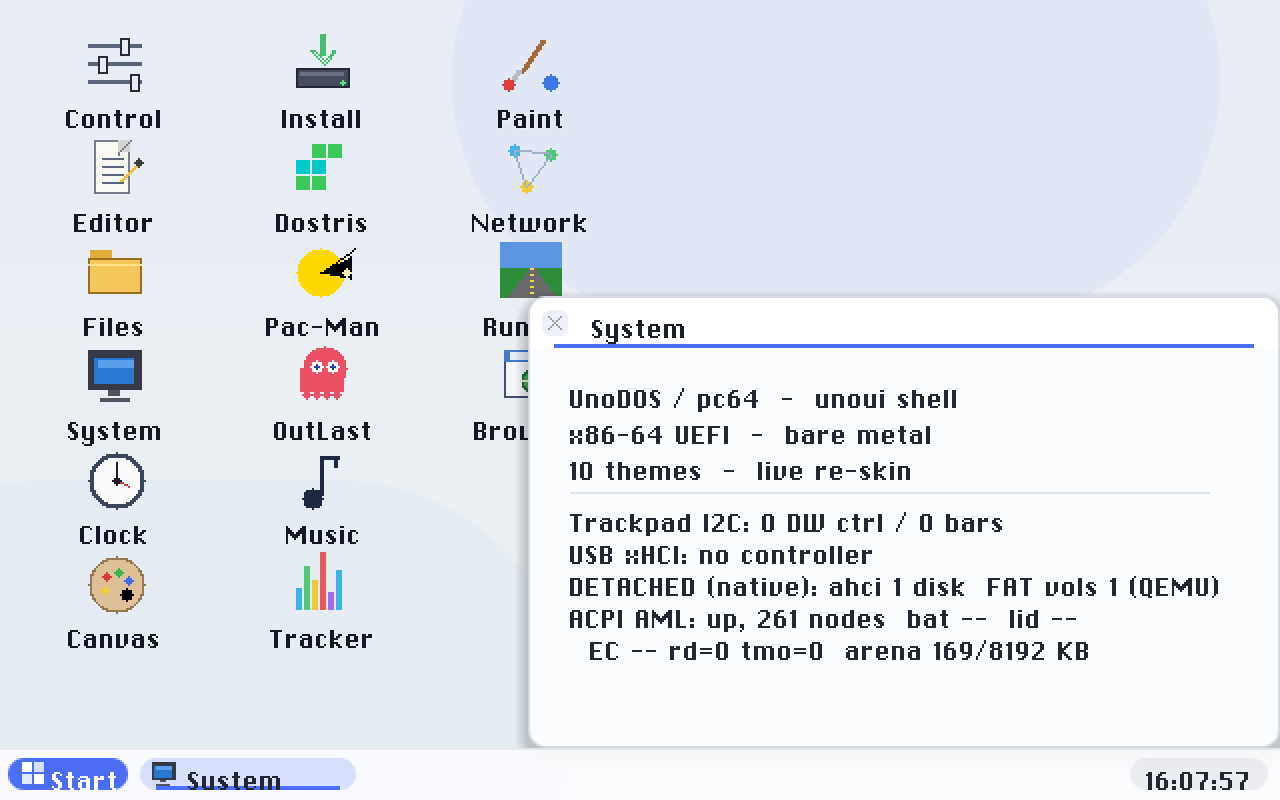
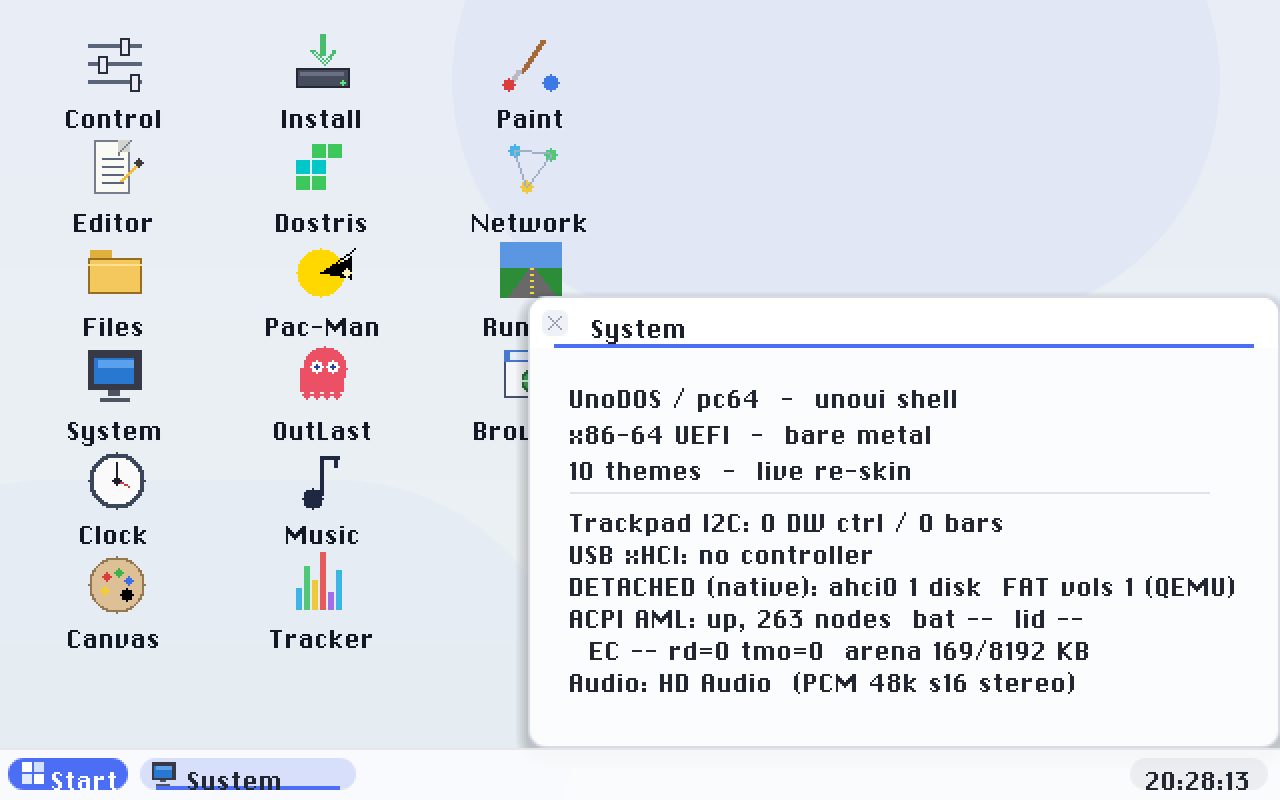
docs: user guide covers the new audio + storage drivers
Guide text: hardware-support card (HD Audio/AC'97 sound, native SATA/NVMe/
eMMC storage), the working Volume slider, the apps' sound paragraph (DAC
first, PC-speaker fallback), the first-boot chime note, the System window
caption (driver + audio backend readouts), and the developer tables
(driver tail, unosound PCM path, pc64_fs native R/W FAT stack - was stale
read-only-SFS). docs_shots.py boots with an intel-hda device so the System
screenshot shows the live audio line; system.png regenerated
(DETACHED ahci0 + HD Audio PCM 48k). Site rebuilt.

Changed region(s): [[0.625, 0.7188, 0.9688, 0.7812], [0.4375, 0.8438, 0.8438, 0.875], [0.875, 0.9688, 0.9688, 1.0]]

diff --git a/docs/apps.html b/docs/apps.html
@@ -51,7 +51,7 @@
 <div class="grid cols-2">
   <figure><img src="assets/img/editor.png" alt="Editor: a text editor with a File and Edit menu, multi-line editing, and Save, Open and New. Each document can even have its own font." loading="lazy"><figcaption><b>Editor</b>: a text editor with a File and Edit menu, multi-line editing, and Save, Open and New. Each document can even have its own font.</figcaption></figure>
   <figure><img src="assets/img/files.png" alt="Files: your saved documents." loading="lazy"><figcaption><b>Files</b>: your saved documents.</figcaption></figure>
-  <figure><img src="assets/img/system.png" alt="System: system and device information at a glance. Its status line shows how independent of the firmware UnoDOS is running - on PCs the native drivers can take over storage, input and timers completely (shown as DETACHED)." loading="lazy"><figcaption><b>System</b>: system and device information at a glance. Its status line shows how independent of the firmware UnoDOS is running - on PCs the native drivers can take over storage, input and timers completely (shown as <i>DETACHED</i>).</figcaption></figure>
+  <figure><img src="assets/img/system.png" alt="System: system and device information at a glance. Its status lines show how independent of the firmware UnoDOS is running - which native storage driver has taken over (DETACHED (native): ahci0 / nvme0 / emmc0 for SATA, NVMe and eMMC disks), and which audio backend the sound reaches (HD Audio, AC&#x27;97, or the PC speaker)." loading="lazy"><figcaption><b>System</b>: system and device information at a glance. Its status lines show how independent of the firmware UnoDOS is running - which native storage driver has taken over (<i>DETACHED (native): ahci0 / nvme0 / emmc0</i> for SATA, NVMe and eMMC disks), and which audio backend the sound reaches (<i>HD Audio</i>, <i>AC'97</i>, or the PC speaker).</figcaption></figure>
   <figure><img src="assets/img/clock.png" alt="Clock: the current time." loading="lazy"><figcaption><b>Clock</b>: the current time.</figcaption></figure>
 </div>
 <p>A <strong>Canvas</strong> demo shows how an app can draw freely inside its window.</p>
@@ -63,7 +63,10 @@
   <figure><img src="assets/img/tracker.png" alt="Tracker: a 4-channel pattern sequencer." loading="lazy"><figcaption><b>Tracker</b>: a 4-channel pattern sequencer.</figcaption></figure>
   <figure><img src="assets/img/music.png" alt="Music: a melody player." loading="lazy"><figcaption><b>Music</b>: a melody player.</figcaption></figure>
 </div>
-<p>The games, Music and Tracker all play sound through the PC speaker.</p>
+<p>The games, Music and Tracker all make sound - through the machine's <strong>HD&nbsp;Audio</strong>
+or <strong>AC'97</strong> audio hardware on modern PCs (which have no PC speaker), with the classic
+PC-speaker beep as the fallback on machines that still have one. The Control Panel's Volume slider
+sets the level.</p>
 
 <h2 id="games">Games</h2>
 <p>The classic games each run in their own window; <strong>Runner3D</strong> takes the whole screen

diff --git a/docs/appearance.html b/docs/appearance.html
@@ -50,8 +50,9 @@ the Control Panel and all without a reboot.</p>
 <h2 id="control">The Control Panel</h2>
 <p>The Control Panel is where you change how UnoDOS looks: a <strong>Theme</strong> menu, a
 <strong>Dark mode</strong> toggle, a <strong>Resolution</strong> menu, a system-wide <strong>Font</strong>
-picker, a volume slider, a UI-scale control, and settings for the date and time. It opens on first boot
-and from the Start menu.</p>
+picker, a <strong>Volume</strong> slider (it adjusts the sound output live, even mid-note, on machines
+with HD&nbsp;Audio or AC'97 audio), a UI-scale control, and settings for the date and time. It opens on
+first boot and from the Start menu.</p>
 <figure><img src="assets/img/controlpanel.png" alt="The Control Panel. Focus a menu with Tab and change it with ↑/↓; the desktop re-skins instantly." loading="lazy"><figcaption>The Control Panel. Focus a menu with <kbd>Tab</kbd> and change it with <kbd>↑</kbd>/<kbd>↓</kbd>; the desktop re-skins instantly.</figcaption></figure>
 
 <h2 id="themes">The ten themes</h2>

diff --git a/docs/dev-api.html b/docs/dev-api.html
@@ -176,8 +176,8 @@ int  fb_big_text(int x,int y,const char *s,fb_px fg,long bg,int scale);
 <div class="tw"><table>
 <thead><tr><th>Subsystem</th><th>Role</th></tr></thead>
 <tbody>
-<tr><td><code>pc64_fs</code> / <code>pc64_io</code></td><td>Unified read-only file namespace: volume 0 is the RAM disk, volumes 1+ are FAT/FAT32 disks mounted through the UEFI Simple File System protocol.</td></tr>
-<tr><td><code>unosound</code></td><td>Single-voice PC-speaker sequencer; the shared audio path for the games, Music and Tracker (<code>uno_seq_beep</code> / <code>_play</code> / <code>_stop</code>).</td></tr>
+<tr><td><code>pc64_fs</code> / <code>pc64_io</code></td><td>Unified file namespace: volume 0 is the RAM disk, volumes 1+ are FAT/FAT32 disks mounted by UnoDOS's own FAT stack (read/write) over the native AHCI/NVMe/SDHCI drivers, with firmware Simple File System volumes as read-only extras while attached.</td></tr>
+<tr><td><code>unosound</code></td><td>Single-voice sequencer; the shared audio path for the games, Music and Tracker (<code>uno_seq_beep</code> / <code>_play</code> / <code>_stop</code>). On pc64 the voice renders into an HD&nbsp;Audio / AC'97 PCM ring when one exists (<code>snd_pcm.c</code>), else the PC speaker.</td></tr>
 <tr><td><code>pc64_pci</code></td><td>PCI config scan; locates the e1000 NIC, xHCI controllers and the Intel iGPU.</td></tr>
 <tr><td><code>net</code> / <code>e1000</code></td><td>e1000 driver publishing a <code>uno_nic_t</code>, plus a from-scratch stack: ARP, IPv4, ICMP, UDP, DHCP, minimal TCP.</td></tr>
 <tr><td><code>pc64_http</code> / <code>pc64_browser</code> / <code>js</code></td><td>HTTP/1.0 GET with DNS, the immediate-mode HTML/Markdown/CSS renderer, and the JavaScript interpreter.</td></tr>

diff --git a/docs/getting-started.html b/docs/getting-started.html
@@ -116,7 +116,9 @@ menu) can put UnoDOS on the computer itself, so it boots without the stick:</p>
 
 <h2 id="firstboot">First boot</h2>
 <p>A splash screen with a loading bar appears while UnoDOS starts up, then a short start-up chime
-plays as the desktop appears. On a laptop the TrackPoint, touchpad and keyboard all work.</p>
+plays as the desktop appears - through the machine's sound hardware (HD&nbsp;Audio or AC'97) on a
+modern PC, or the PC speaker on machines that have one. On a laptop the TrackPoint, touchpad and
+keyboard all work.</p>
 <div class="grid cols-2">
   <figure><img src="assets/img/splash.png" alt="The boot splash, with a loading bar and version." loading="lazy"><figcaption>The boot splash, with a loading bar and version.</figcaption></figure>
   <figure><img src="assets/img/controlpanel.png" alt="First desktop paint: the Control Panel opens over the Aurora Light desktop." loading="lazy"><figcaption>First desktop paint: the Control Panel opens over the Aurora Light desktop.</figcaption></figure>

diff --git a/docs/developer.html b/docs/developer.html
@@ -66,7 +66,7 @@ no host C library, no underlying OS. It ships two interchangeable desktops, sele
 <tr><td><strong>Toolkit (unoui)</strong></td><td>The portable widget core: windows, widgets, events, and a swappable theme (ten themes ship).</td></tr>
 <tr><td><strong>Framebuffer (fb)</strong></td><td>A 32-bit software framebuffer: clipping, alpha blend, gradients, anti-aliased rounded rects, fractional fill-scaling, and dirty-row present-on-change.</td></tr>
 <tr><td><strong>Platform (UEFI)</strong></td><td>A hand-rolled UEFI surface: the GOP framebuffer, keyboard, pointer, and Boot Services. No gnu-efi or EDK2.</td></tr>
-<tr><td><strong>Drivers (tail)</strong></td><td>e1000 NIC and the TCP/IP + TLS stack, xHCI USB and USB Ethernet, uno3d 3D, UnoSound audio, and the TrueType engine.</td></tr>
+<tr><td><strong>Drivers (tail)</strong></td><td>e1000 NIC and the TCP/IP + TLS stack, xHCI USB and USB Ethernet, native AHCI/NVMe/SDHCI storage, HD&nbsp;Audio and AC'97 PCM audio, uno3d 3D, UnoSound, and the TrueType engine.</td></tr>
 </tbody>
 </table></div>
 

diff --git a/docs/index.html b/docs/index.html
@@ -77,7 +77,7 @@ laptop booting from a USB stick.</p>
   <div class="card"><h4>Applications</h4><p>Editor, Files, System, Clock, a Canvas demo, plus Paint, Music, a Tracker, three games and a 3D runner.</p></div>
   <div class="card"><h4>A web browser</h4><p>Shows HTML, Markdown and CSS, runs JavaScript, and loads pages over HTTP and HTTPS.</p></div>
   <div class="card"><h4>Networking</h4><p>Connect over Ethernet, get an address automatically, and browse the web, including secure (HTTPS) sites.</p></div>
-  <div class="card"><h4>Hardware support</h4><p>Your screen, keyboard, mouse and trackpad, sound, and USB, plus reading files from FAT-formatted USB sticks and disks.</p></div>
+  <div class="card"><h4>Hardware support</h4><p>Your screen, keyboard, mouse and trackpad, and USB. Sound plays through the machine's audio hardware (HD&nbsp;Audio or AC'97), and UnoDOS drives SATA, NVMe and eMMC/SD storage with its own drivers.</p></div>
 </div>
 
 <p class="kv">New here? Start with <a href="getting-started.html">Getting started</a>, then take the

diff --git a/docs/build_site.py b/docs/build_site.py
@@ -507,7 +507,7 @@ laptop booting from a USB stick.</p>
   <div class="card"><h4>Applications</h4><p>Editor, Files, System, Clock, a Canvas demo, plus Paint, Music, a Tracker, three games and a 3D runner.</p></div>
   <div class="card"><h4>A web browser</h4><p>Shows HTML, Markdown and CSS, runs JavaScript, and loads pages over HTTP and HTTPS.</p></div>
   <div class="card"><h4>Networking</h4><p>Connect over Ethernet, get an address automatically, and browse the web, including secure (HTTPS) sites.</p></div>
-  <div class="card"><h4>Hardware support</h4><p>Your screen, keyboard, mouse and trackpad, sound, and USB, plus reading files from FAT-formatted USB sticks and disks.</p></div>
+  <div class="card"><h4>Hardware support</h4><p>Your screen, keyboard, mouse and trackpad, and USB. Sound plays through the machine's audio hardware (HD&nbsp;Audio or AC'97), and UnoDOS drives SATA, NVMe and eMMC/SD storage with its own drivers.</p></div>
 </div>
 
 <p class="kv">New here? Start with <a href="getting-started.html">Getting started</a>, then take the
@@ -588,7 +588,9 @@ menu) can put UnoDOS on the computer itself, so it boots without the stick:</p>
 
 <h2 id="firstboot">First boot</h2>
 <p>A splash screen with a loading bar appears while UnoDOS starts up, then a short start-up chime
-plays as the desktop appears. On a laptop the TrackPoint, touchpad and keyboard all work.</p>
+plays as the desktop appears - through the machine's sound hardware (HD&nbsp;Audio or AC'97) on a
+modern PC, or the PC speaker on machines that have one. On a laptop the TrackPoint, touchpad and
+keyboard all work.</p>
 <div class="grid cols-2">
   {fig("splash.png", "The boot splash, with a loading bar and version.")}
   {fig("controlpanel.png", "First desktop paint: the Control Panel opens over the Aurora Light desktop.")}
@@ -651,8 +653,9 @@ the Control Panel and all without a reboot.</p>
 <h2 id="control">The Control Panel</h2>
 <p>The Control Panel is where you change how UnoDOS looks: a <strong>Theme</strong> menu, a
 <strong>Dark mode</strong> toggle, a <strong>Resolution</strong> menu, a system-wide <strong>Font</strong>
-picker, a volume slider, a UI-scale control, and settings for the date and time. It opens on first boot
-and from the Start menu.</p>
+picker, a <strong>Volume</strong> slider (it adjusts the sound output live, even mid-note, on machines
+with HD&nbsp;Audio or AC'97 audio), a UI-scale control, and settings for the date and time. It opens on
+first boot and from the Start menu.</p>
 {fig("controlpanel.png", "The Control Panel. Focus a menu with <kbd>Tab</kbd> and change it with <kbd>↑</kbd>/<kbd>↓</kbd>; the desktop re-skins instantly.")}
 
 <h2 id="themes">The ten themes</h2>
@@ -693,7 +696,7 @@ PAGES["apps.html"] = ("Applications", f"""
 <div class="grid cols-2">
   {fig("editor.png", "<b>Editor</b>: a text editor with a File and Edit menu, multi-line editing, and Save, Open and New. Each document can even have its own font.")}
   {fig("files.png", "<b>Files</b>: your saved documents.")}
-  {fig("system.png", "<b>System</b>: system and device information at a glance. Its status line shows how independent of the firmware UnoDOS is running - on PCs the native drivers can take over storage, input and timers completely (shown as <i>DETACHED</i>).")}
+  {fig("system.png", "<b>System</b>: system and device information at a glance. Its status lines show how independent of the firmware UnoDOS is running - which native storage driver has taken over (<i>DETACHED (native): ahci0 / nvme0 / emmc0</i> for SATA, NVMe and eMMC disks), and which audio backend the sound reaches (<i>HD Audio</i>, <i>AC'97</i>, or the PC speaker).")}
   {fig("clock.png", "<b>Clock</b>: the current time.")}
 </div>
 <p>A <strong>Canvas</strong> demo shows how an app can draw freely inside its window.</p>
@@ -705,7 +708,10 @@ PAGES["apps.html"] = ("Applications", f"""
   {fig("tracker.png", "<b>Tracker</b>: a 4-channel pattern sequencer.")}
   {fig("music.png", "<b>Music</b>: a melody player.")}
 </div>
-<p>The games, Music and Tracker all play sound through the PC speaker.</p>
+<p>The games, Music and Tracker all make sound - through the machine's <strong>HD&nbsp;Audio</strong>
+or <strong>AC'97</strong> audio hardware on modern PCs (which have no PC speaker), with the classic
+PC-speaker beep as the fallback on machines that still have one. The Control Panel's Volume slider
+sets the level.</p>
 
 <h2 id="games">Games</h2>
 <p>The classic games each run in their own window; <strong>Runner3D</strong> takes the whole screen
@@ -870,7 +876,7 @@ no host C library, no underlying OS. It ships two interchangeable desktops, sele
 <tr><td><strong>Toolkit (unoui)</strong></td><td>The portable widget core: windows, widgets, events, and a swappable theme (ten themes ship).</td></tr>
 <tr><td><strong>Framebuffer (fb)</strong></td><td>A 32-bit software framebuffer: clipping, alpha blend, gradients, anti-aliased rounded rects, fractional fill-scaling, and dirty-row present-on-change.</td></tr>
 <tr><td><strong>Platform (UEFI)</strong></td><td>A hand-rolled UEFI surface: the GOP framebuffer, keyboard, pointer, and Boot Services. No gnu-efi or EDK2.</td></tr>
-<tr><td><strong>Drivers (tail)</strong></td><td>e1000 NIC and the TCP/IP + TLS stack, xHCI USB and USB Ethernet, uno3d 3D, UnoSound audio, and the TrueType engine.</td></tr>
+<tr><td><strong>Drivers (tail)</strong></td><td>e1000 NIC and the TCP/IP + TLS stack, xHCI USB and USB Ethernet, native AHCI/NVMe/SDHCI storage, HD&nbsp;Audio and AC'97 PCM audio, uno3d 3D, UnoSound, and the TrueType engine.</td></tr>
 </tbody>
 </table></div>
 
@@ -991,8 +997,8 @@ falls back to the portable default, so the same widgets render on 1-bit through 
 <div class="tw"><table>
 <thead><tr><th>Subsystem</th><th>Role</th></tr></thead>
 <tbody>
-<tr><td><code>pc64_fs</code> / <code>pc64_io</code></td><td>Unified read-only file namespace: volume 0 is the RAM disk, volumes 1+ are FAT/FAT32 disks mounted through the UEFI Simple File System protocol.</td></tr>
-<tr><td><code>unosound</code></td><td>Single-voice PC-speaker sequencer; the shared audio path for the games, Music and Tracker (<code>uno_seq_beep</code> / <code>_play</code> / <code>_stop</code>).</td></tr>
+<tr><td><code>pc64_fs</code> / <code>pc64_io</code></td><td>Unified file namespace: volume 0 is the RAM disk, volumes 1+ are FAT/FAT32 disks mounted by UnoDOS's own FAT stack (read/write) over the native AHCI/NVMe/SDHCI drivers, with firmware Simple File System volumes as read-only extras while attached.</td></tr>
+<tr><td><code>unosound</code></td><td>Single-voice sequencer; the shared audio path for the games, Music and Tracker (<code>uno_seq_beep</code> / <code>_play</code> / <code>_stop</code>). On pc64 the voice renders into an HD&nbsp;Audio / AC'97 PCM ring when one exists (<code>snd_pcm.c</code>), else the PC speaker.</td></tr>
 <tr><td><code>pc64_pci</code></td><td>PCI config scan; locates the e1000 NIC, xHCI controllers and the Intel iGPU.</td></tr>
 <tr><td><code>net</code> / <code>e1000</code></td><td>e1000 driver publishing a <code>uno_nic_t</code>, plus a from-scratch stack: ARP, IPv4, ICMP, UDP, DHCP, minimal TCP.</td></tr>
 <tr><td><code>pc64_http</code> / <code>pc64_browser</code> / <code>js</code></td><td>HTTP/1.0 GET with DNS, the immediate-mode HTML/Markdown/CSS renderer, and the JavaScript interpreter.</td></tr>

diff --git a/pc64/docs_shots.py b/pc64/docs_shots.py
@@ -315,6 +315,10 @@ def main():
         "-drive", "if=pflash,format=raw,file=build/vars.fd",
         "-drive", "format=vvfat,file=fat:rw:build/esp",
         "-device", "qemu-xhci", "-device", "usb-tablet",
+        # an HD Audio device, so the System window's Audio line shows the real
+        # PCM backend (the "none" audiodev just swallows the samples headless)
+        "-audiodev", "none,id=snd0",
+        "-device", "intel-hda", "-device", "hda-output,audiodev=snd0",
         "-display", "none",
         "-qmp", "unix:%s,server,nowait" % QMP_SOCK,
         "-debugcon", "file:build/ovmf.log", "-global", "isa-debugcon.iobase=0x402",